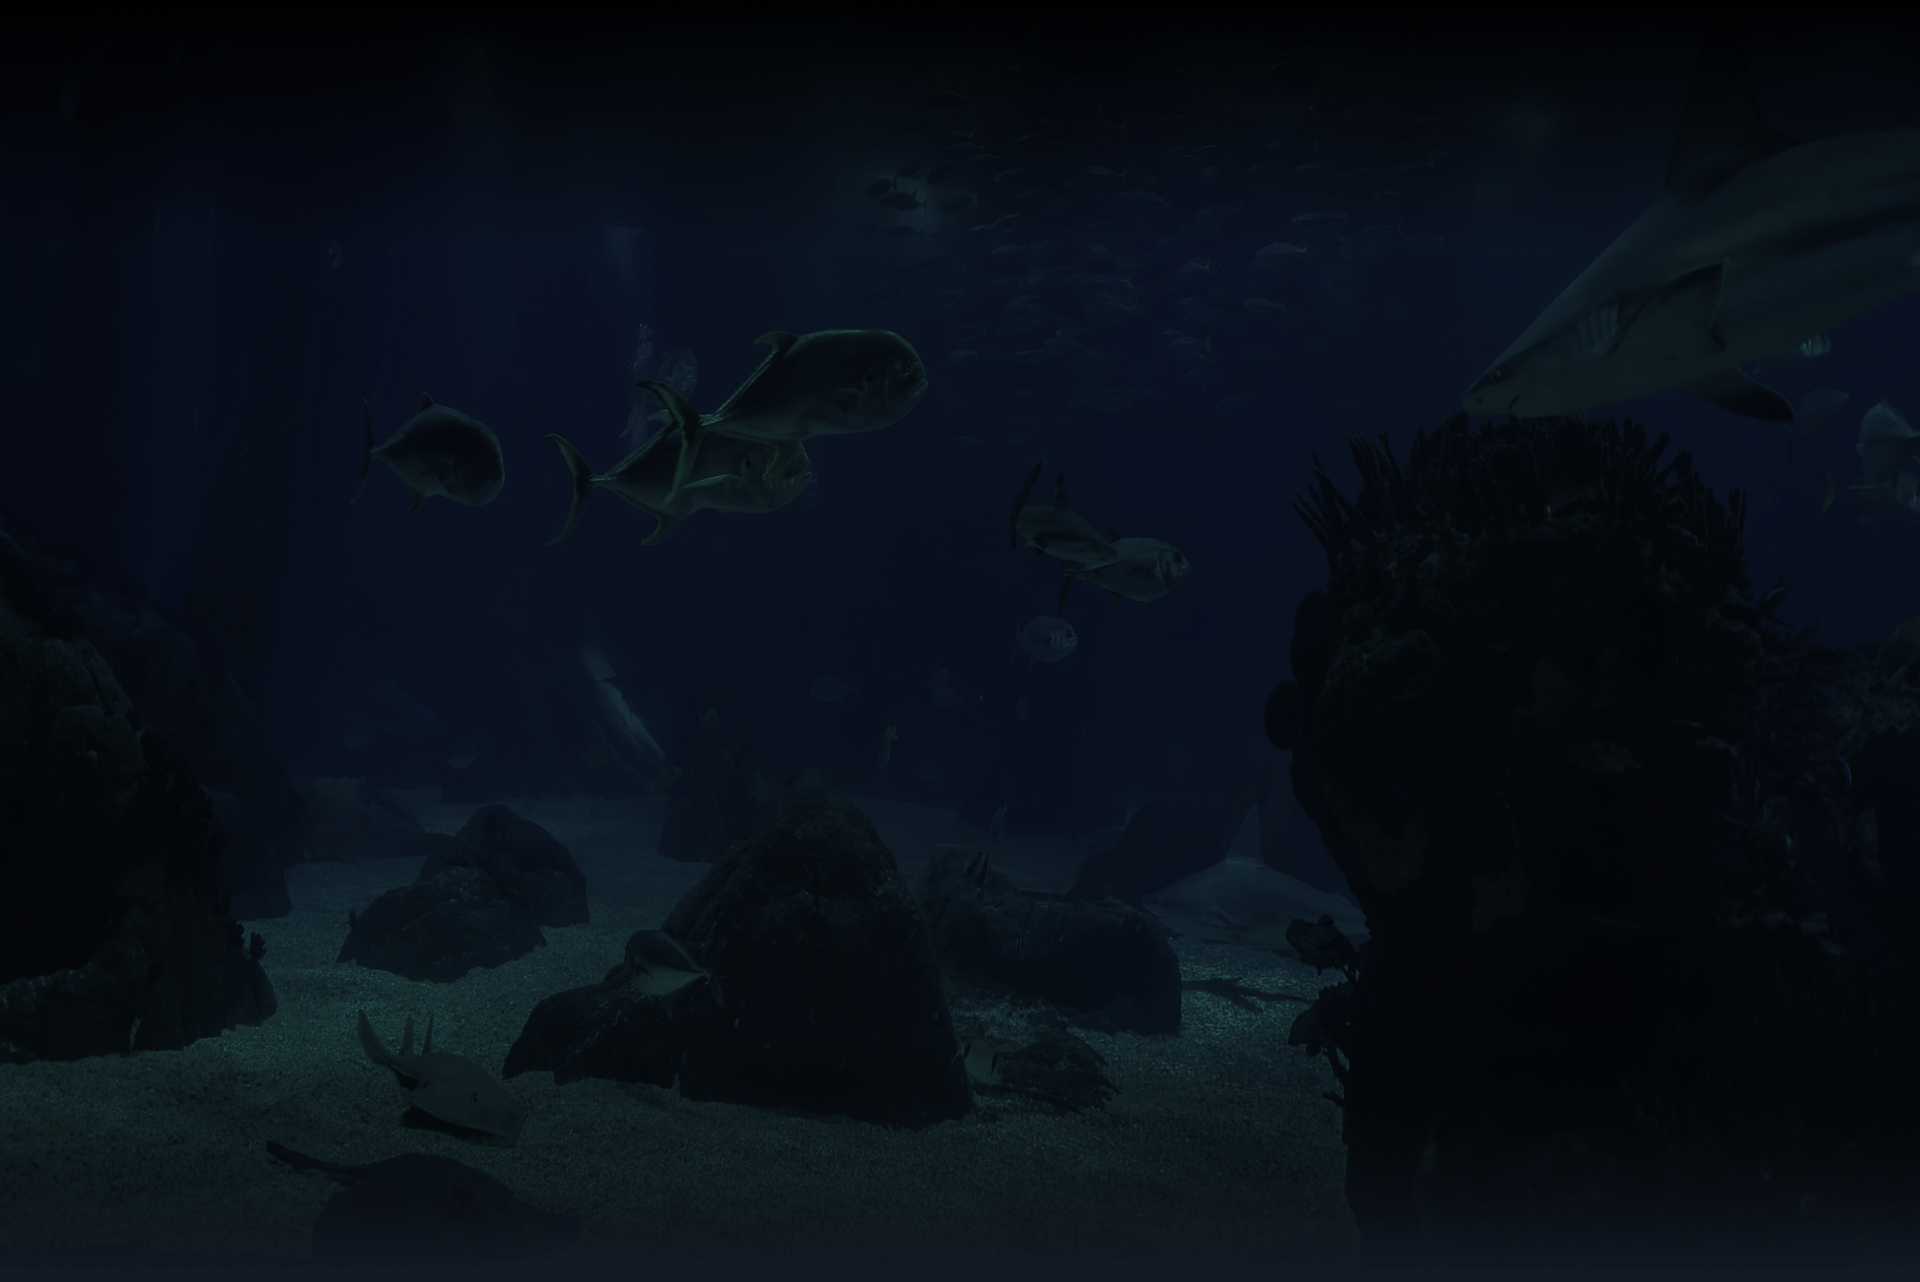
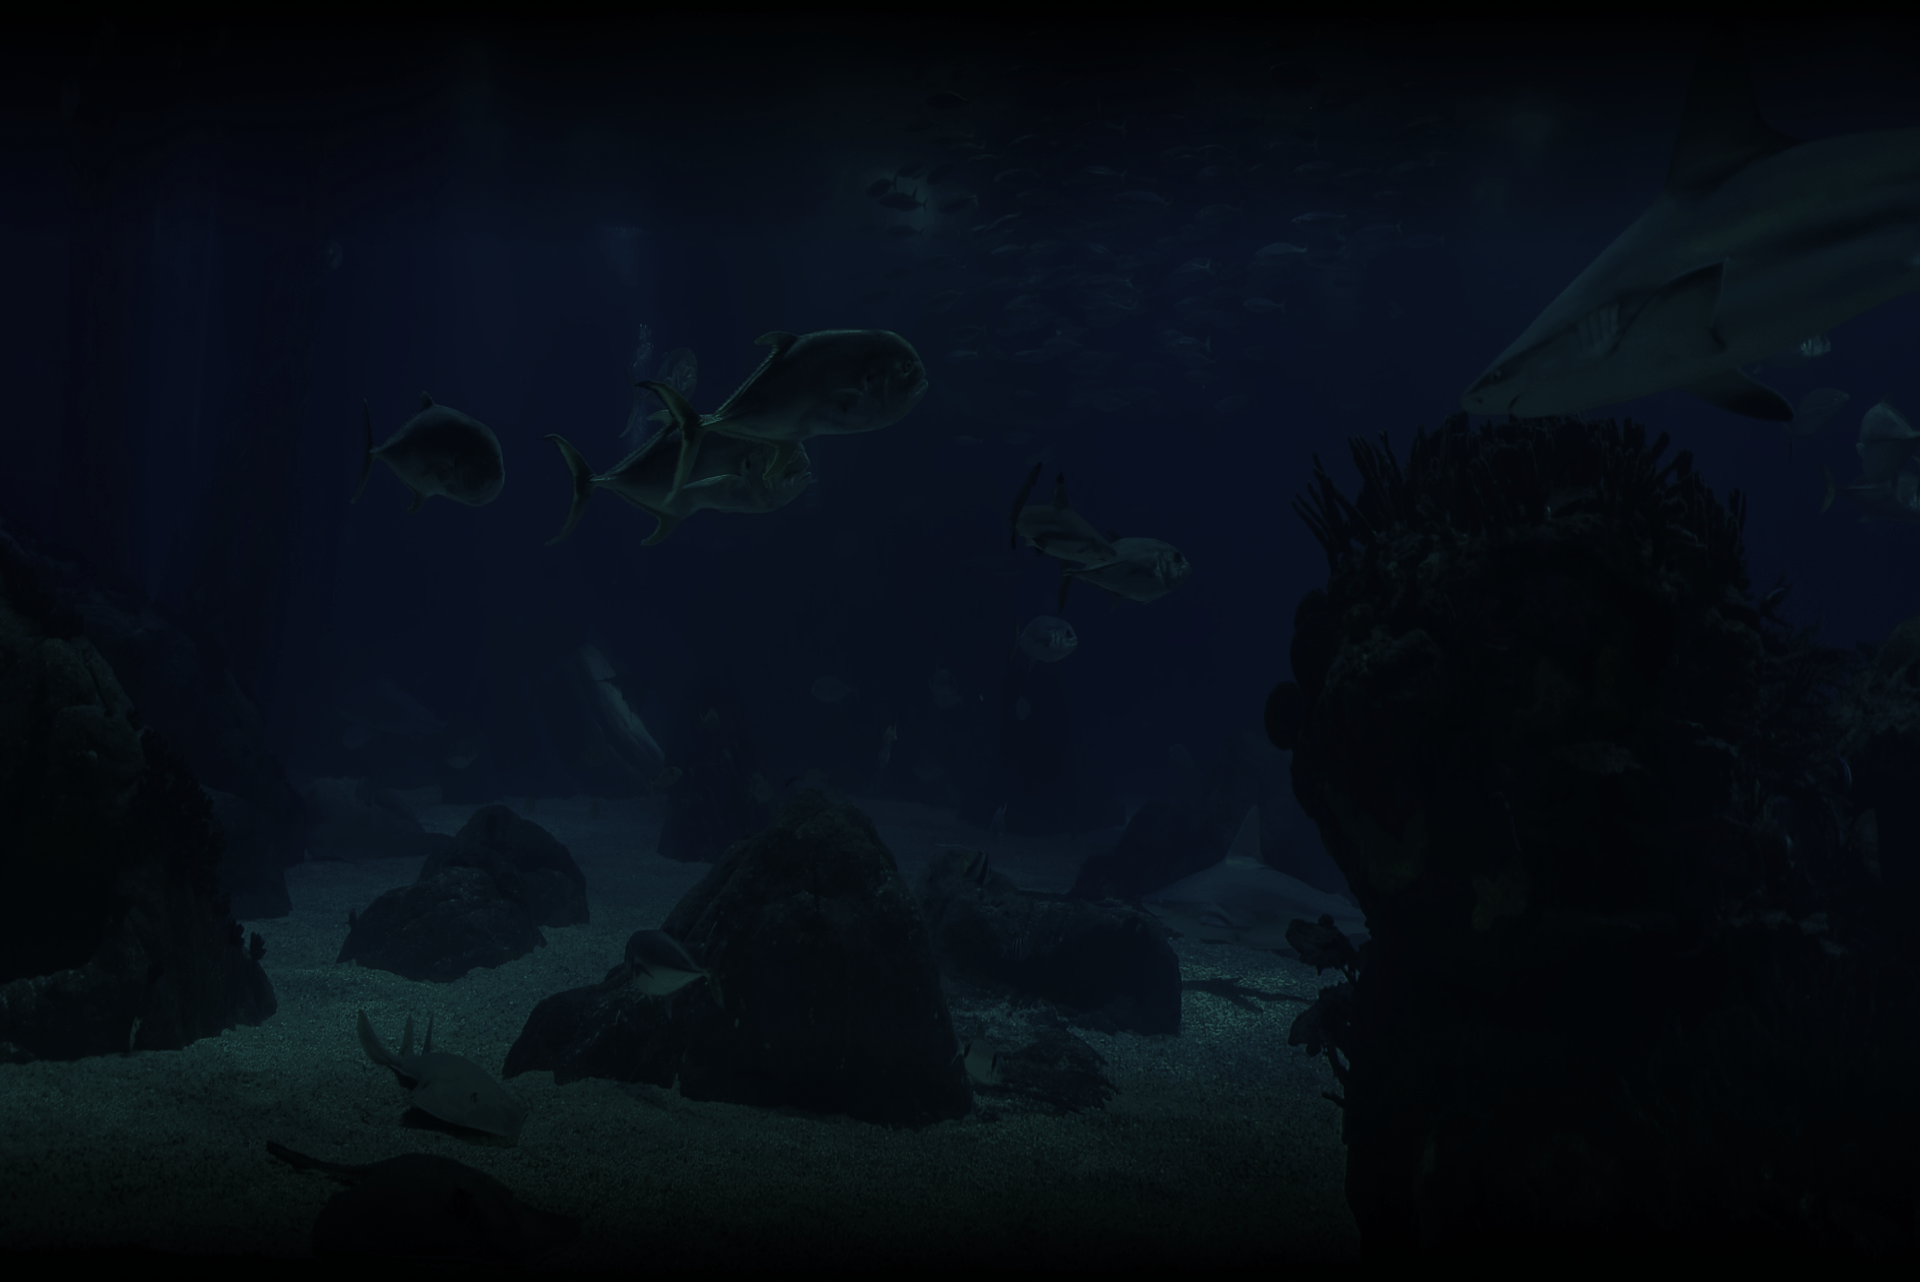
fixed background on responsive

Changed region(s): [[0.0, 0.936, 1.0, 1.0]]

diff --git a/src/pages/home/Background.tsx b/src/pages/home/Background.tsx
@@ -2,15 +2,19 @@ import bg01 from "../../assets/images/bg01.png";
 import bg02 from "../../assets/images/bg02.png";
 import bg03 from "../../assets/images/bg03.png";
 import bg04 from "../../assets/images/bg04.png";
-
+import { ImageProps } from "../../types";
 
 export const Background = (): JSX.Element => {
   return (
-    <div className='absolute inset-0 -z-10'>
-      <img src={bg01} alt="Mountains" className="min-h-screen object-cover"/>
-      <img src={bg02} alt="Cave" className="min-h-screen object-cover"/>
-      <img src={bg03} alt="Submarine cave" className="min-h-screen object-cover"/>
-      <img src={bg04} alt="Deep ocean" className="min-h-screen object-cover"/>
+    <div className="absolute top-0 bottom-0 -z-10 flex flex-col justify-between xl:bottom-auto xl:justify-start">
+      <Image src={bg01} alt="Mountains" />
+      <Image src={bg02} alt="Cave" />
+      <Image src={bg03} alt="Submarine cave" />
+      <Image src={bg04} alt="Deep ocean" />
     </div>
   );
+};
+
+const Image = ({ src, alt }: ImageProps) => {
+  return <img src={src} alt={alt} className="min-h-screen object-cover" />;
 };
